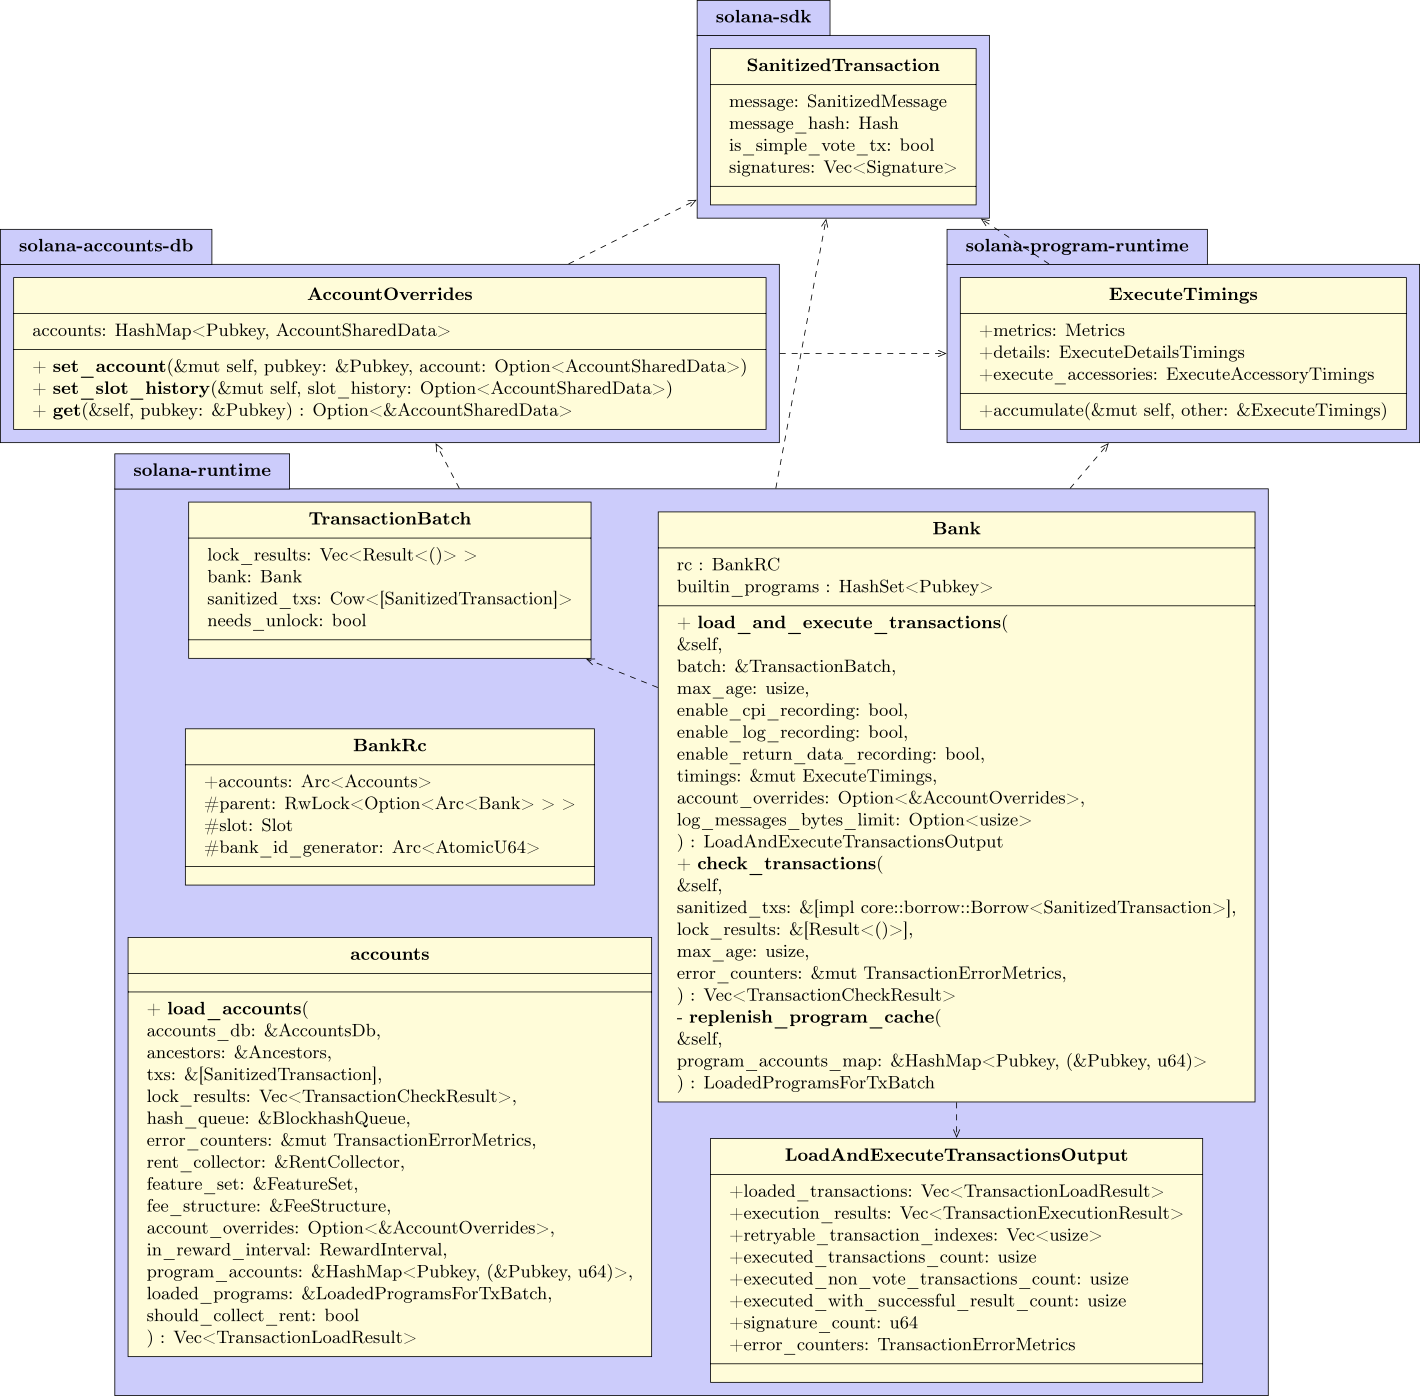
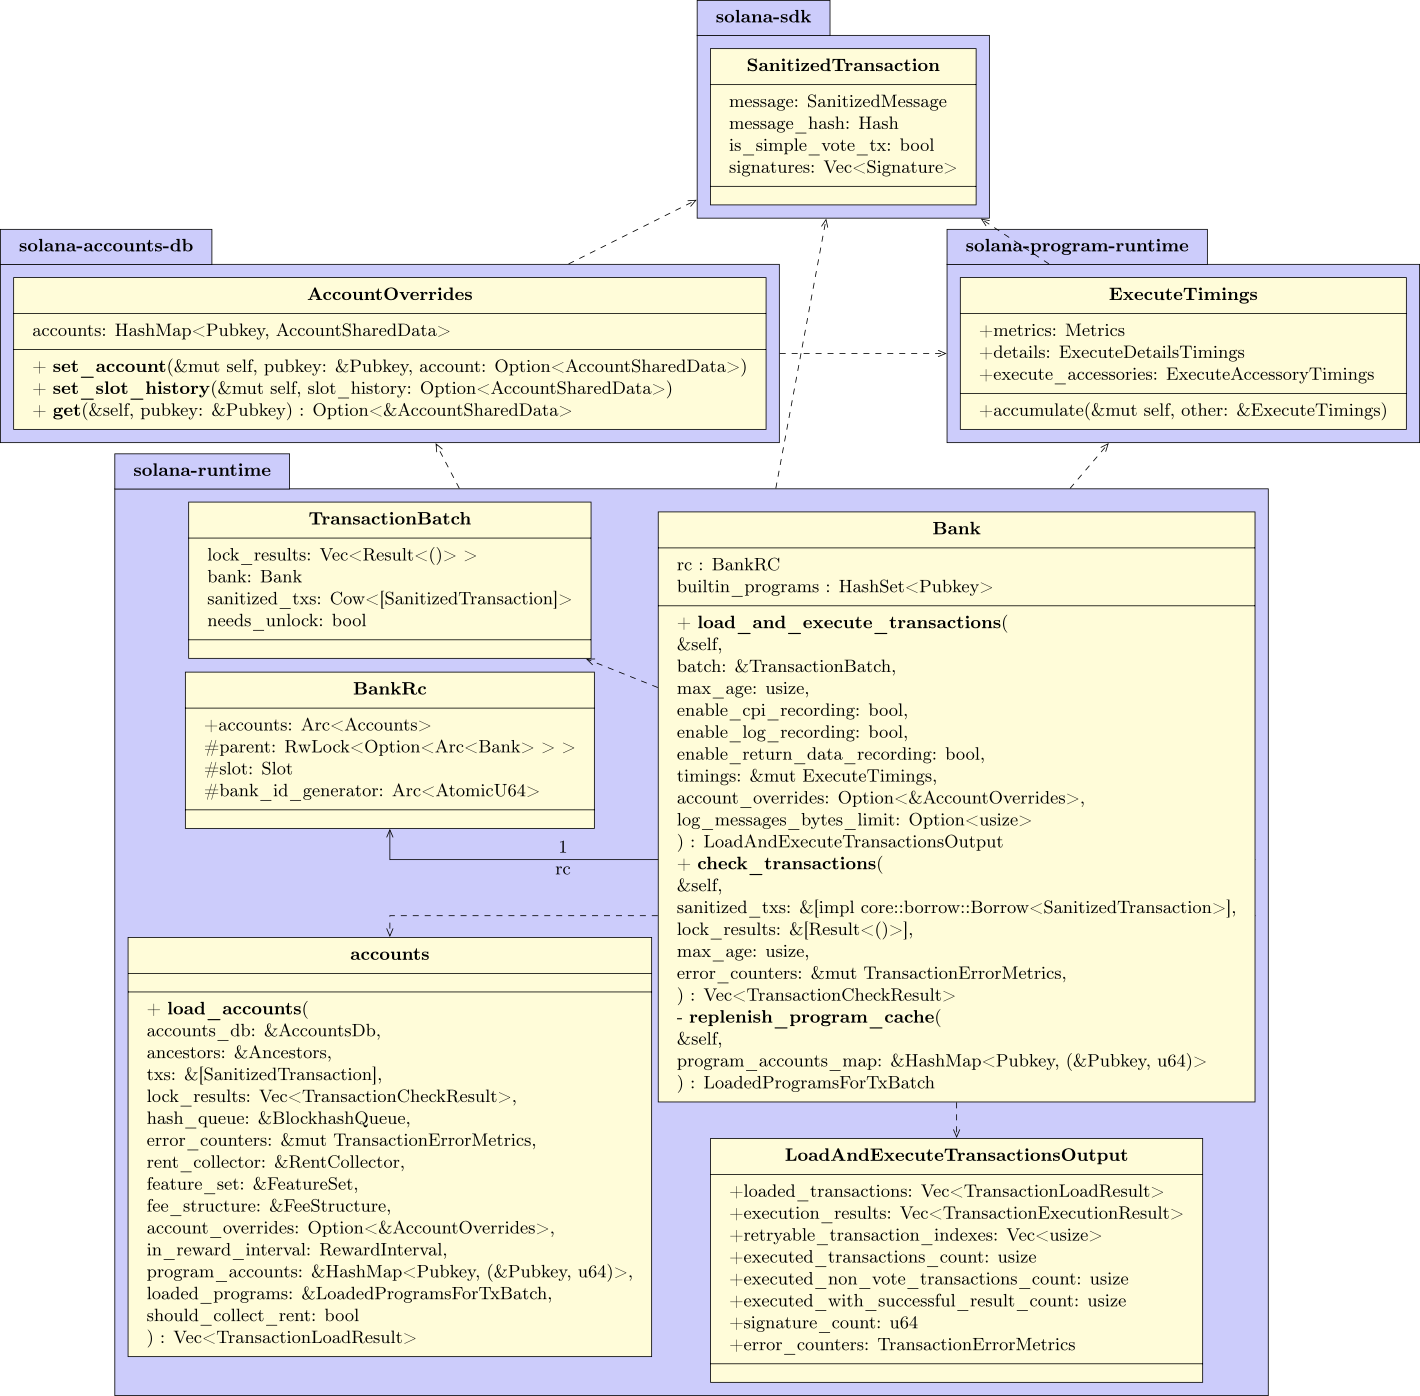
Add associations to class diagram

Changed region(s): [[0.1239, 0.462, 0.4338, 0.6468]]

diff --git a/diagrams/classdiag.tex b/diagrams/classdiag.tex
@@ -51,7 +51,7 @@
         ) : LoadedProgramsForTxBatch
     }
 
-    \umlclass[y=8]{BankRc}{
+    \umlclass[y=9]{BankRc}{
       +accounts: Arc<Accounts>\\
       \#parent: RwLock<Option<Arc<Bank> > >\\
       \#slot: Slot\\
@@ -85,8 +85,10 @@
       ) : Vec<TransactionLoadResult>
     }
 
+    \umldep[geometry=-|, anchors=-20 and 90]{Bank}{accounts}
     \umldep{Bank}{LoadAndExecuteTransactionsOutput}
     \umldep{Bank}{TransactionBatch}
+    \umlunicompo[geometry=-|, anchors=-10 and -90, arg=rc, mult=1]{Bank}{BankRc}
 
   \end{umlpackage}
 
